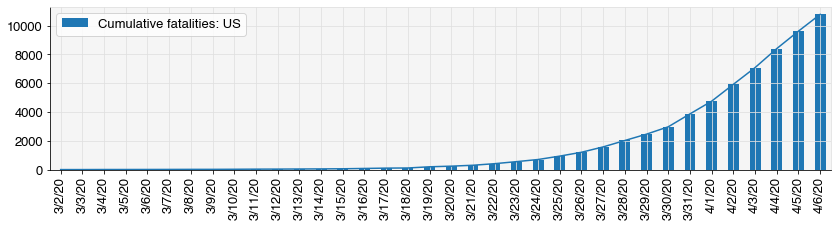
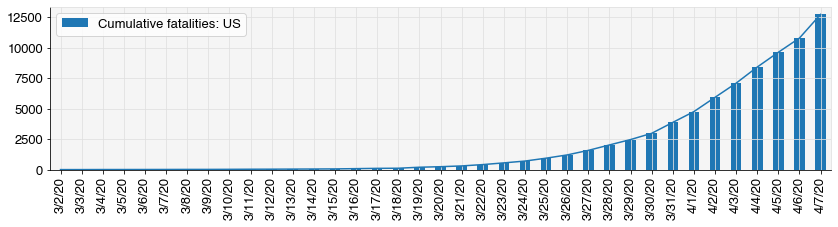
weekly crontab backup

diff --git a/01 - Daily_Report_Spain.md b/01 - Daily_Report_Spain.md
@@ -38,8 +38,8 @@ sir_prediction_from_country('Spain')
 ![png](01%20-%20Daily_Report_Spain_files/01%20-%20Daily_Report_Spain_2_2.png)
 
 
-    - Last day with data: 4/6/20
-    - Spain fatalities to date: 13341
+    - Last day with data: 4/7/20
+    - Spain fatalities to date: 14045
      
     
     Model Initial parameters:
@@ -51,19 +51,19 @@ sir_prediction_from_country('Spain')
     day since start simulation: 24  => beta reduction factor: 0.48
     
     Fitting parameters N0 and beta
-    Initial loss: 30634
+    Initial loss: 33161
     Optimization terminated successfully.
-             Current function value: 399.724933
-             Iterations: 71
-             Function evaluations: 139
+             Current function value: 495.323976
+             Iterations: 69
+             Function evaluations: 135
     Estimated parameters:
-    N0: 32973
-    beta0 (contacts per day): 0.44
-    R0: 2.18
+    N0: 34288
+    beta0 (contacts per day): 0.43
+    R0: 2.16
     
-    Final loss: 399
-    Initial/Final % loss: 1.3
-    Normalized Loss (per million persons, per day) 0.276 
+    Final loss: 495
+    Initial/Final % loss: 1.49
+    Normalized Loss (per million persons, per day) 0.332 
     
     
     _____________________________________________________________________
@@ -73,13 +73,13 @@ sir_prediction_from_country('Spain')
     Model name: optimized 2 pars
     
     Simulated days: 45.0
-    Initially infected/Total population (N0/N): 32973/46660000 (70.7 per 100,000)
+    Initially infected/Total population (N0/N): 34288/46660000 (73.5 per 100,000)
     beta (per day): 0.4 , nu (per day): 0.2
     1/beta (days): 2.3 , 1/nu (days): 5.0
     IFR: 0.002
-    Initial Doubling time: 2.9  days, Initial R0: 2.2
+    Initial Doubling time: 3.0  days, Initial R0: 2.2
     Interventions:
-      1/beta at day 7.0  = 4.2  days, R0 = 1.18
+      1/beta at day 7.0  = 4.3  days, R0 = 1.18
       1/beta at day 24.0  = 4.8  days, R0 = 1.04
     Latency for intervention effect on fatalities (days): 11
     Infected_to_Detected_ratio: 5
@@ -88,17 +88,17 @@ sir_prediction_from_country('Spain')
     _____________________________________________________________________
     
     MODEL'S OUTPUTS FOR TODAY: 2020-04-07
-       Infected: 2061748 (4.4%)
-       Recovered: 7194519 (15.4%)
-       Exposed to date: 9256267 (19.8%)
-       In ICU: 5772
-       Fatalities: 14389
+       Infected: 2028829 (4.3%)
+       Recovered: 7146927 (15.3%)
+       Exposed to date: 9175756 (19.7%)
+       In ICU: 5680
+       Fatalities: 14293
      
     MEDIUM TERM FORECAST (45 days from model start date): 
-       Percent of population exposed at end simulation: 28%
-       Peak ICU admissions:  5926  on day 2020-04-02
+       Percent of population exposed at end simulation: 27%
+       Peak ICU admissions:  5854  on day 2020-04-01
        (note model does not account for long ICU stays)
-       Total fatalities at end of simulation: 23893
+       Total fatalities at end of simulation: 23622
 
 
 
@@ -124,5 +124,5 @@ sir_prediction_from_country('Spain')
           The derivative of the quadratic is used to estimate doubling time and R(t).
     Rt estimated from doubling time using nu= 0.2
     
-    Run finished 2020-04-07 06:53:37.083846
+    Run finished 2020-04-07 22:01:50.125670
 

diff --git a/03 - Daily_Report_US.md b/03 - Daily_Report_US.md
@@ -36,8 +36,8 @@ sir_prediction_from_country('US')
 ![png](03%20-%20Daily_Report_US_files/03%20-%20Daily_Report_US_1_2.png)
 
 
-    - Last day with data: 4/6/20
-    - US fatalities to date: 10783
+    - Last day with data: 4/7/20
+    - US fatalities to date: 12722
      
     
     Model Initial parameters:
@@ -49,19 +49,19 @@ sir_prediction_from_country('US')
     day since start simulation: 37  => beta reduction factor: 0.48
     
     Fitting parameters N0 and beta
-    Initial loss: 1070180
+    Initial loss: 1134165
     Optimization terminated successfully.
-             Current function value: 760.593326
-             Iterations: 165
-             Function evaluations: 300
+             Current function value: 799.413076
+             Iterations: 148
+             Function evaluations: 282
     Estimated parameters:
-    N0: 353
+    N0: 398
     beta0 (contacts per day): 0.53
-    R0: 2.67
+    R0: 2.65
     
-    Final loss: 760
+    Final loss: 799
     Initial/Final % loss: 0.07
-    Normalized Loss (per million persons, per day) 0.065 
+    Normalized Loss (per million persons, per day) 0.066 
     
     
     _____________________________________________________________________
@@ -71,14 +71,14 @@ sir_prediction_from_country('US')
     Model name: optimized 2 pars
     
     Simulated days: 66.0
-    Initially infected/Total population (N0/N): 353/327200000 (0.1 per 100,000)
+    Initially infected/Total population (N0/N): 398/327200000 (0.1 per 100,000)
     beta (per day): 0.5 , nu (per day): 0.2
     1/beta (days): 1.9 , 1/nu (days): 5.0
     IFR: 0.002
     Initial Doubling time: 2.1  days, Initial R0: 2.7
     Interventions:
-      1/beta at day 12.0  = 2.9  days, R0 = 1.74
-      1/beta at day 37.0  = 3.9  days, R0 = 1.28
+      1/beta at day 12.0  = 2.9  days, R0 = 1.73
+      1/beta at day 37.0  = 3.9  days, R0 = 1.27
     Latency for intervention effect on fatalities (days): 11
     Infected_to_Detected_ratio: 5
     
@@ -86,17 +86,17 @@ sir_prediction_from_country('US')
     _____________________________________________________________________
     
     MODEL'S OUTPUTS FOR TODAY: 2020-04-07
-       Infected: 5091933 (1.6%)
-       Recovered: 6536684 (2.0%)
-       Exposed to date: 11628617 (3.6%)
-       In ICU: 12729
-       Fatalities: 13073
+       Infected: 4938789 (1.5%)
+       Recovered: 6447385 (2.0%)
+       Exposed to date: 11386174 (3.5%)
+       In ICU: 12346
+       Fatalities: 12894
      
     MEDIUM TERM FORECAST (66 days from model start date): 
-       Percent of population exposed at end simulation: 37%
-       Peak ICU admissions:  53460  on day 2020-04-22
+       Percent of population exposed at end simulation: 35%
+       Peak ICU admissions:  50828  on day 2020-04-22
        (note model does not account for long ICU stays)
-       Total fatalities at end of simulation: 210972
+       Total fatalities at end of simulation: 202222
 
 
 
@@ -122,5 +122,5 @@ sir_prediction_from_country('US')
           The derivative of the quadratic is used to estimate doubling time and R(t).
     Rt estimated from doubling time using nu= 0.2
     
-    Run finished 2020-04-07 06:54:13.574261
+    Run finished 2020-04-07 22:02:14.227165
 

diff --git a/00 - Data_Overview.md b/00 - Data_Overview.md
@@ -35,8 +35,8 @@ _ = get_doubling_time(df, nu=1/5, ndays=7)
 ![png](00%20-%20Data_Overview_files/00%20-%20Data_Overview_3_2.png)
 
 
-    - Last day with data: 4/6/20
-    - Spain fatalities to date: 13341
+    - Last day with data: 4/7/20
+    - Spain fatalities to date: 14045
      
 
 
@@ -70,8 +70,8 @@ _ = get_doubling_time(df, nu=1/5, ndays=7)
 ![png](00%20-%20Data_Overview_files/00%20-%20Data_Overview_5_2.png)
 
 
-    - Last day with data: 4/6/20
-    - Italy fatalities to date: 16523
+    - Last day with data: 4/7/20
+    - Italy fatalities to date: 17127
      
 
 
@@ -105,8 +105,8 @@ _ = get_doubling_time(df, nu=1/5, ndays=7)
 ![png](00%20-%20Data_Overview_files/00%20-%20Data_Overview_7_2.png)
 
 
-    - Last day with data: 4/6/20
-    - Portugal fatalities to date: 311
+    - Last day with data: 4/7/20
+    - Portugal fatalities to date: 345
      
 
 
@@ -140,8 +140,8 @@ _ = get_doubling_time(df, nu=1/5, ndays=7)
 ![png](00%20-%20Data_Overview_files/00%20-%20Data_Overview_9_2.png)
 
 
-    - Last day with data: 4/6/20
-    - France fatalities to date: 8911
+    - Last day with data: 4/7/20
+    - France fatalities to date: 10328
      
 
 
@@ -175,8 +175,8 @@ _ = get_doubling_time(df, nu=1/5, ndays=7)
 ![png](00%20-%20Data_Overview_files/00%20-%20Data_Overview_11_2.png)
 
 
-    - Last day with data: 4/6/20
-    - US fatalities to date: 10783
+    - Last day with data: 4/7/20
+    - US fatalities to date: 12722
      
 
 
